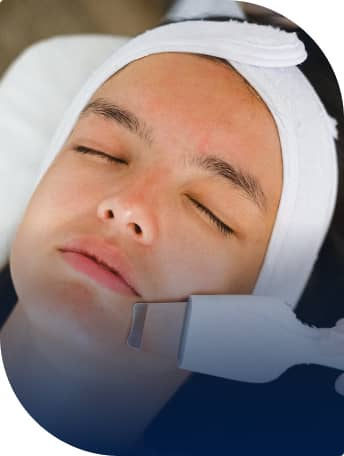
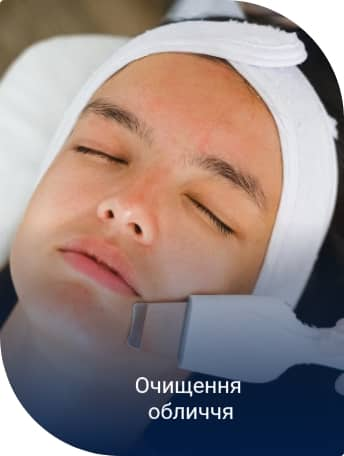
add alt

Changed region(s): [[0.3779, 0.8289, 0.6977, 0.9211]]

diff --git a/index.html b/index.html
@@ -10,47 +10,53 @@
     <header>
       <div class="container">
         <div class="header-container">
-          <nav>
+          <nav class="header-nav">
             <a href="/">
               <img src="./Images/logo.svg" alt="Логотип зона краси" />
             </a>
-            <ul>
+            <ul class="header-menu">
               <li><a class="header-link" href="#about-us-section">Про нас</a></li>
               <li><a class="header-link" href="#why-we-are-section">Чому ми</a></li>
               <li><a class="header-link" href="#our-treatment-section">Наші процедури</a></li>
               <li><a class="header-link" href="#contacts-section">Контакти</a></li>
             </ul>
-            <div class="social">
-              <a href="/" class="social-item"><img src="./Images/phone.svg" alt="Логотип трубка" /></a>
-              <a href="/" class="social-item"><img src="./Images/facebook.svg" alt="Логотип фейсбук" /></a>
-              <a href="/" class="social-item"><img src="./Images/instagram.svg" alt="Логотип інстаграм" /></a>
-            </div>
           </nav>
+          <div class="social-header">
+            <a href="/" class="social-item"><img src="./Images/phone.svg" alt="Логотип трубка" /></a>
+            <a href="/" class="social-item"><img src="./Images/facebook.svg" alt="Логотип фейсбук" /></a>
+            <a href="/" class="social-item"><img src="./Images/instagram.svg" alt="Логотип інстаграм" /></a>
+          </div>
         </div>
       </div>
     </header>
     <main>
       <section class="hero-section">
         <div class="container">
-          <p class="section-title-hero">Косметологічна клініка</p>
-          <h1 class="hero-title" lang="en">Beauty Zone</h1>
-          <button class="button" type="submit">Замовити дзвінок</button>
-          <p class="section-gray">Запишись та отримай безкоштовну консультацію нашого косметолога</p>
+          <div class="hero-container">
+            <p class="section-title-hero">Косметологічна клініка</p>
+            <h1 class="hero-title" lang="en">Beauty Zone</h1>
+            <button class="button" type="submit">Замовити дзвінок</button>
+            <p class="section-gray">Запишись та отримай безкоштовну консультацію нашого косметолога</p>
+          </div>
         </div>
       </section>
       <section class="section-for-padding-ind" id="about-us-section">
         <div class="container">
-          <h2 class="section-title-about-us" lang="en"><span class="accent">Перевтілюйтесь в</span> Beauty Zone!</h2>
-          <p class="section-title-about-us-beauty">
-            Наша косметологічна клініка пропонує вам професійні послуги з догляду за шкірою обличчя та тіла
-          </p>
-          <p class="section-title-about-us-beauty" lang="en">
-            B <span class="capitalize"><span class="bold">beauty zone</span></span> ми гарантуємо найвищі стандарти якості та
-            приємний сервіс. Наші косметологічні процедури та препарати допоможуть вам підтримувати свою красу та молодість. З
-            нами краса назавжди!
-          </p>
-          <img src="./Images/face before.jpg" alt="Обличчя жінки до лікування" />
-          <img src="./Images/face after.jpg" alt="Обличчя жінки після лікування" />
+          <div class="about-us-container">
+            <div class="about-us-divide">
+              <h2 class="section-title-about-us" lang="en"><span class="accent">Перевтілюйтесь в</span> Beauty Zone!</h2>
+              <p class="section-title-about-us-beauty">
+                Наша косметологічна клініка пропонує вам професійні послуги з догляду за шкірою обличчя та тіла
+              </p>
+              <p class="section-title-about-us-beauty" lang="en">
+                B <span class="capitalize"><span class="bold">beauty zone</span></span> ми гарантуємо найвищі стандарти якості
+                та приємний сервіс. Наші косметологічні процедури та препарати допоможуть вам підтримувати свою красу та
+                молодість. З нами краса назавжди!
+              </p>
+            </div>
+            <img src="./Images/face before.jpg" alt="Обличчя жінки до лікування" />
+            <img src="./Images/face after.jpg" alt="Обличчя жінки після лікування" />
+          </div>
         </div>
       </section>
       <section class="section" id="why-we-are-section">
@@ -84,20 +90,23 @@
       <section class="section" id="our-treatment-section">
         <div class="container">
           <h2 class="section-title-our-treatment"><span class="accent">Наші</span> процедури</h2>
-          <ul>
+          <ul class="treatment-list">
             <li>
-              <article>
+              <article class="treatment-pict">
                 <img src="./Images/treatment cream.jpg" alt="Обличчя жінки намащене кремом" />
+                <p class="right-treatment">Маски для обличчя</p>
               </article>
             </li>
             <li>
-              <article>
+              <article class="treatment-pict">
                 <img src="./Images/treatment injection.jpg" alt="Обличчя жінки інєкція" />
+                <p class="right-treatment">Ін'єкції для обличчя</p>
               </article>
             </li>
             <li>
-              <article>
+              <article class="treatment-pict">
                 <img src="./Images/treatment caress.jpg" alt="Обличчя жінки лопатка" />
+                <p class="right-treatment">Очищення обличчя</p>
               </article>
             </li>
           </ul>

diff --git a/CSS/styles.css b/CSS/styles.css
@@ -61,6 +61,8 @@ body {
 }
 
 ul {
+  margin: 0;
+  padding: 0;
   list-style-type: none;
 }
 
@@ -81,6 +83,28 @@ p {
 /* Header */
 .header-container {
   display: flex;
+  align-items: center;
+  gap: 40px;
+}
+
+.header-nav {
+  display: flex;
+  align-items: center;
+  flex-grow: 1;
+  gap: 40px;
+}
+
+.header-menu {
+  display: flex;
+  gap: 56px;
+  flex-grow: 1;
+  justify-content: center;
+}
+
+.social-header {
+  display: flex;
+  gap: 32px;
+  align-items: center;
 }
 
 /* Button */
@@ -117,29 +141,46 @@ p {
 }
 
 /* Section-title-hero */
+.hero-container {
+  align-items: center;
+  margin-left: 205px;
+}
+
 .section-title-hero {
+  margin-top: 44px;
+  margin-bottom: 0;
   color: var(--color-brand-dark);
   line-height: 1.16;
 }
 
 .hero-title {
+  max-width: 529px;
   margin-bottom: 0;
-  padding: 154.86px 706px 274.14px 205px;
+  padding: 0px 0px 0px 0px;
   color: var(--color-brand-ligt);
   font-family: 'Play';
-  text-align: left;
+
   font-size: 140px;
   font-weight: 700;
   line-height: 1.23;
 }
 
 .section-gray {
+  margin-bottom: 0;
+  padding-top: 14px;
+  max-width: 238px;
+  max-height: 14px;
   color: #4a4a4a;
   font-size: 12px;
   line-height: 18px;
 }
 
 /* About us-section */
+.about-us-container {
+  display: flex;
+  align-self: flex-end;
+}
+
 .container {
   width: 100%;
   max-width: 1288px;
@@ -152,6 +193,7 @@ p {
 }
 
 .section-title-about-us {
+  max-width: 529px;
   margin-bottom: 40px;
   color: var(--color-brand-ligt);
   font-family: 'Play';
@@ -165,10 +207,20 @@ p {
   color: var(--color-brand-dark);
 }
 
+.about-us-divide {
+  max-width: 709px;
+}
+
 .section-title-about-us-beauty {
+  margin-bottom: 40px;
+  max-width: 709px;
   color: var(--color-brand-dark);
   font-size: 22px;
   line-height: 1.7;
+}
+
+.section-title-about-us-beauty:last-child {
+  margin-bottom: 199px;
 }
 
 .section-title-about-us-beauty .bold {
@@ -210,6 +262,23 @@ p {
 
 .section-title-our-treatment .accent {
   color: var(--color-brand-dark);
+}
+
+.treatment-list {
+  display: flex;
+  gap: 16px;
+}
+
+.treatment-pict {
+  padding: 37px;
+  border: 1px solid lightgray; /* remove*/
+  border-top-right-radius: 18px;
+  border-bottom-left-radius: 18px;
+}
+
+.right-treatment {
+  font-size: 22px;
+  line-height: 1.18;
 }
 
 /* Contacts-section */
